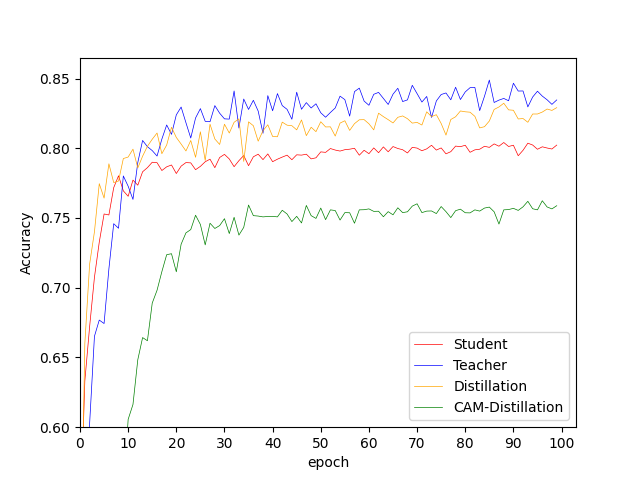
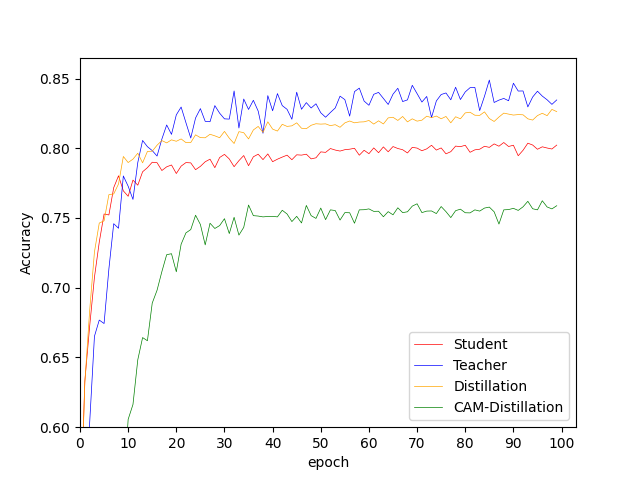
knowledge distillation

diff --git a/result.py b/result.py
@@ -12,7 +12,7 @@ def main():
     # loading history
     s_train_loss, s_train_acc, s_val_loss, s_val_acc = load_hist(student_path, 5)
     t_train_loss, t_train_acc, t_val_loss, t_val_acc = load_hist(teacher_path, 5)
-    st_train_loss, st_train_acc, st_val_loss, st_val_acc = load_hist(student_st_path, 1)
+    st_train_loss, st_train_acc, st_val_loss, st_val_acc = load_hist(student_st_path, 5)
     cam_train_loss, cam_train_acc, cam_val_loss, cam_val_acc = load_hist(student_cam_path, 1)
 
     # plot result

diff --git a/cam.py b/cam.py
@@ -55,10 +55,12 @@ def main():
         ax[1].set_title('teacher')
         ax[2].set_title('student(distilled)')
         ax[3].set_title('student(CAM)')
+        
         ax[0].imshow(student_cam)
         ax[1].imshow(teacher_cam)
         ax[2].imshow(st_student_cam)
         ax[3].imshow(cam_student_cam)
+        
         plt.suptitle(name[label], fontsize=20)
         plt.savefig('./cam/cam_' + str(i) + '.png')
 

diff --git a/train_kd.py b/train_kd.py
@@ -14,8 +14,8 @@ from src.kd_loss.st import SoftTargetLoss
 import pickle
 
 def main():
-    for i in range(1):
-        print(i)
+    for i in range(5):
+        print(i+1)
         epochs = 100
         batch_size = 128
         np.random.seed(i)
